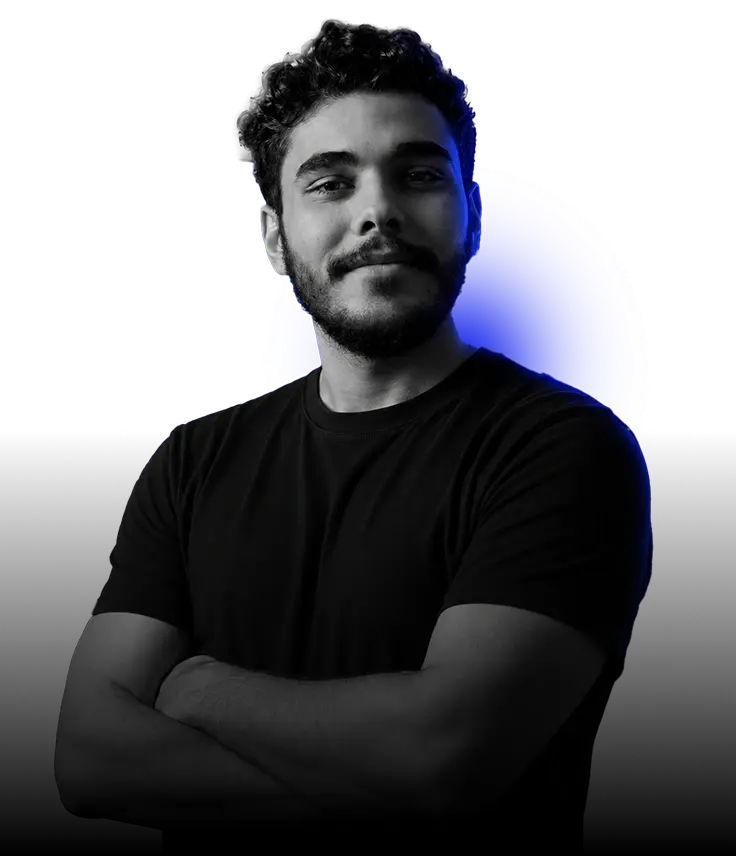
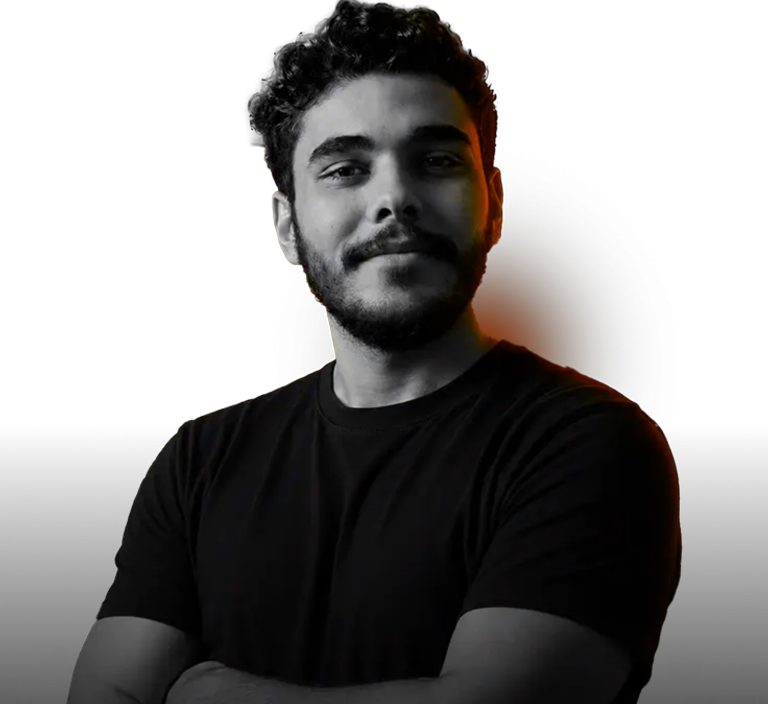
feat(portfolio): bake portrait presentation into image assets

diff --git a/portfolio/scripts/export-portrait.ts b/portfolio/scripts/export-portrait.ts
@@ -1,0 +1,298 @@
+#!/usr/bin/env bun
+/** Pixel-accurate portrait bakes via headless Chrome + source alpha composite. */
+import { existsSync, mkdtempSync, readFileSync, rmSync, writeFileSync } from 'node:fs';
+import { spawn, spawnSync } from 'node:child_process';
+import { createConnection } from 'node:net';
+import { tmpdir } from 'node:os';
+import path from 'node:path';
+import { fileURLToPath } from 'node:url';
+import sharp from 'sharp';
+
+const root = path.resolve(path.dirname(fileURLToPath(import.meta.url)), '..');
+const source = path.join(root, 'assets/omar-portrait-source.png');
+const heroOutput = path.join(root, 'public/omar-portrait.png');
+const flatOutput = path.join(root, 'assets/omar-portrait-flat.png');
+
+/** Desktop hero img used size (w-full max-w-3xl + md:max-h-[44rem]). */
+const OUT_W = 768;
+const OUT_H = 704;
+const DPR = 2;
+const FOCUS_X = 0.5;
+const FOCUS_Y = 0.12;
+
+/** Creator Broadcast Pipeline `--background`: oklch(13% 0.005 264) */
+const PAGE_BG = 'oklch(13% 0.005 264)';
+
+const CHROME =
+  process.env.CHROME_PATH ??
+  spawnSync('bash', ['-lc', 'command -v google-chrome || command -v chromium'], {
+    encoding: 'utf8',
+  }).stdout.trim();
+
+type Variant = 'hero' | 'flat';
+
+function coverExtract(
+  iw: number,
+  ih: number,
+  tw: number,
+  th: number,
+  fx: number,
+  fy: number,
+) {
+  const scale = Math.max(tw / iw, th / ih);
+  const sw = Math.round(iw * scale);
+  const sh = Math.round(ih * scale);
+  const left = Math.round(Math.max(0, Math.min(sw - tw, fx * sw - fx * tw)));
+  const top = Math.round(Math.max(0, Math.min(sh - th, fy * sh - fy * th)));
+  return { sw, sh, left, top };
+}
+
+async function cropSourceAlpha(dest: string) {
+  const meta = await sharp(source).metadata();
+  const iw = meta.width ?? 0;
+  const ih = meta.height ?? 0;
+  if (!iw || !ih) throw new Error('Could not read source dimensions');
+
+  const { sw, sh, left, top } = coverExtract(iw, ih, OUT_W, OUT_H, FOCUS_X, FOCUS_Y);
+  await sharp(source)
+    .resize(sw, sh)
+    .extract({ left, top, width: OUT_W, height: OUT_H })
+    .png()
+    .toFile(dest);
+}
+
+function bakeHtml(sourceFile: string, variant: Variant) {
+  const srcUrl = `file://${sourceFile}`;
+  const transparent = variant === 'hero';
+
+  const overlay = transparent
+    ? ''
+    : `
+  .hero-portrait::after {
+    content: '';
+    pointer-events: none;
+    position: absolute;
+    bottom: 0;
+    left: 0;
+    z-index: 1;
+    width: 100%;
+    height: 22%;
+    background: linear-gradient(
+      to top,
+      ${PAGE_BG} 0%,
+      color-mix(in oklch, ${PAGE_BG} 88%, transparent) 22%,
+      color-mix(in oklch, ${PAGE_BG} 45%, transparent) 58%,
+      transparent 100%
+    );
+  }`;
+
+  return `<!doctype html>
+<html lang="en"><head><meta charset="utf-8" />
+<style>
+  * { box-sizing: border-box; }
+  html, body {
+    margin: 0;
+    width: ${OUT_W}px;
+    height: ${OUT_H}px;
+    overflow: hidden;
+    background: ${transparent ? '#000' : PAGE_BG};
+  }
+  .hero-portrait {
+    position: relative;
+    margin: 0;
+    width: ${OUT_W}px;
+    height: ${OUT_H}px;
+  }
+  .hero-portrait img {
+    display: block;
+    width: ${OUT_W}px;
+    height: ${OUT_H}px;
+    object-fit: cover;
+    object-position: center 12%;
+    filter: hue-rotate(165deg) saturate(1.2);
+  }${overlay}
+</style></head>
+<body>
+  <figure class="hero-portrait"><img src="${srcUrl}" alt="" /></figure>
+</body></html>`;
+}
+
+async function waitForPort(port: number, timeoutMs = 10_000) {
+  const start = Date.now();
+  while (Date.now() - start < timeoutMs) {
+    try {
+      await new Promise<void>((resolve, reject) => {
+        const socket = createConnection({ port, host: '127.0.0.1' }, () => {
+          socket.end();
+          resolve();
+        });
+        socket.on('error', reject);
+      });
+      return;
+    } catch {
+      await Bun.sleep(50);
+    }
+  }
+  throw new Error(`Chrome debug port ${port} did not open`);
+}
+
+type CdpMessage = { id: number; method: string; params?: Record<string, unknown> };
+
+async function captureChrome(htmlPath: string, pngPath: string) {
+  if (!CHROME) throw new Error('Chrome/Chromium not found (set CHROME_PATH)');
+
+  const port = 9333 + Math.floor(Math.random() * 200);
+  const chrome = spawn(
+    CHROME,
+    [
+      '--headless=new',
+      '--disable-gpu',
+      '--hide-scrollbars',
+      '--no-sandbox',
+      `--remote-debugging-port=${port}`,
+      `--window-size=${OUT_W},${OUT_H}`,
+      `--force-device-scale-factor=${DPR}`,
+      `file://${htmlPath}`,
+    ],
+    { stdio: 'ignore' },
+  );
+
+  try {
+    await waitForPort(port);
+    const targets = (await fetch(`http://127.0.0.1:${port}/json/list`).then((r) =>
+      r.json(),
+    )) as Array<{ webSocketDebuggerUrl: string; type: string }>;
+    const page = targets.find((t) => t.type === 'page');
+    if (!page) throw new Error('No CDP page target');
+
+    const ws = new WebSocket(page.webSocketDebuggerUrl);
+    await new Promise<void>((resolve, reject) => {
+      ws.addEventListener('open', () => resolve());
+      ws.addEventListener('error', reject);
+    });
+
+    let id = 0;
+    const pending = new Map<number, { resolve: (v: unknown) => void; reject: (e: Error) => void }>();
+
+    ws.addEventListener('message', (event) => {
+      const msg = JSON.parse(String(event.data)) as {
+        id?: number;
+        result?: unknown;
+        error?: { message: string };
+      };
+      if (!msg.id) return;
+      const p = pending.get(msg.id);
+      if (!p) return;
+      pending.delete(msg.id);
+      if (msg.error) p.reject(new Error(msg.error.message));
+      else p.resolve(msg.result);
+    });
+
+    const send = (method: string, params: Record<string, unknown> = {}) =>
+      new Promise<unknown>((resolve, reject) => {
+        const msgId = ++id;
+        pending.set(msgId, { resolve, reject });
+        ws.send(JSON.stringify({ id: msgId, method, params } satisfies CdpMessage));
+      });
+
+    await send('Page.enable');
+    await send('Runtime.enable');
+    await send('Emulation.setDeviceMetricsOverride', {
+      width: OUT_W,
+      height: OUT_H,
+      deviceScaleFactor: DPR,
+      mobile: false,
+    });
+
+    await send('Page.navigate', { url: `file://${htmlPath}` });
+    await Bun.sleep(400);
+
+    await send('Runtime.evaluate', {
+      expression: `new Promise((resolve) => {
+        const img = document.querySelector('img');
+        if (!img) return resolve(false);
+        if (img.complete && img.naturalWidth) return resolve(true);
+        img.addEventListener('load', () => resolve(true), { once: true });
+        img.addEventListener('error', () => resolve(false), { once: true });
+      })`,
+      awaitPromise: true,
+    });
+
+    const shot = (await send('Page.captureScreenshot', {
+      format: 'png',
+      fromSurface: true,
+      captureBeyondViewport: false,
+      omitBackground: false,
+    })) as { data: string };
+
+    writeFileSync(pngPath, Buffer.from(shot.data, 'base64'));
+    ws.close();
+  } finally {
+    chrome.kill('SIGKILL');
+  }
+}
+
+function resizePng(pngPath: string, rgba: boolean) {
+  const args = rgba
+    ? ['-background', 'none', '-alpha', 'on', '-resize', `${OUT_W}x${OUT_H}!`]
+    : ['-resize', `${OUT_W}x${OUT_H}!`, '-alpha', 'off', '-define', 'png:color-type=2'];
+  const result = spawnSync('magick', [pngPath, ...args, pngPath], { encoding: 'utf8' });
+  if (result.status !== 0) throw new Error(result.stderr || 'magick resize failed');
+}
+
+/** Apply source alpha to Chrome-filtered RGB (no extra bottom cut — source alpha is canonical). */
+function composeHeroTransparent(filteredPath: string, alphaSourcePath: string, dest: string) {
+  const result = spawnSync(
+    'magick',
+    [
+      filteredPath,
+      alphaSourcePath,
+      '-compose',
+      'CopyOpacity',
+      '-composite',
+      '-background',
+      'none',
+      dest,
+    ],
+    { encoding: 'utf8' },
+  );
+  if (result.status !== 0) throw new Error(result.stderr || 'alpha composite failed');
+}
+
+async function exportVariant(variant: Variant, dest: string) {
+  const tmp = mkdtempSync(path.join(tmpdir(), `portrait-${variant}-`));
+  const htmlPath = path.join(tmp, 'bake.html');
+  const chromePath = path.join(tmp, 'chrome.png');
+  const alphaPath = path.join(tmp, 'alpha.png');
+
+  try {
+    writeFileSync(htmlPath, bakeHtml(source, variant));
+    await captureChrome(htmlPath, chromePath);
+    resizePng(chromePath, false);
+
+    if (variant === 'hero') {
+      await cropSourceAlpha(alphaPath);
+      composeHeroTransparent(chromePath, alphaPath, dest);
+    } else {
+      writeFileSync(dest, readFileSync(chromePath));
+    }
+
+    const final = spawnSync('magick', ['identify', '-format', '%wx%h %b', dest], {
+      encoding: 'utf8',
+    });
+    console.log(
+      `export-portrait (${variant}): ${path.relative(root, source)} → ${path.relative(root, dest)} (${final.stdout.trim()})`,
+    );
+  } finally {
+    rmSync(tmp, { recursive: true, force: true });
+  }
+}
+
+async function main() {
+  if (!existsSync(source)) throw new Error(`Missing source portrait: ${source}`);
+
+  await exportVariant('hero', heroOutput);
+  await exportVariant('flat', flatOutput);
+}
+
+await main();

diff --git a/portfolio/scripts/self-check.ts b/portfolio/scripts/self-check.ts
@@ -82,6 +82,8 @@ for (const file of [
   'public/og.png',
   'public/site.webmanifest',
   'public/omar-portrait.png',
+  'assets/omar-portrait-source.png',
+  'assets/omar-portrait-flat.png',
   'public/logos/capsule-community-32.png',
   'public/logos/capsule-community-64.png',
   'public/logos/school-of-marketing-32.png',
@@ -104,6 +106,20 @@ for (const [rel, w, h] of iconSizes) {
   assert(out.status === 0, `identify failed: ${rel}`);
   const [iw, ih] = (out.stdout ?? '').trim().split(/\s+/).map(Number);
   assert(iw === w && ih === h, `${rel} must be ${w}×${h}, got ${iw}×${ih}`);
+}
+
+{
+  const out = spawnSync(
+    'magick',
+    ['identify', '-format', '%w %h', path.join(root, 'public/omar-portrait.png')],
+    { encoding: 'utf8' },
+  );
+  assert(out.status === 0, 'identify failed: public/omar-portrait.png');
+  const [iw, ih] = (out.stdout ?? '').trim().split(/\s+/).map(Number);
+  assert(
+    iw === site.portrait.width && ih === site.portrait.height,
+    `omar-portrait.png must be ${site.portrait.width}×${site.portrait.height}, got ${iw}×${ih}`,
+  );
 }
 
 const faviconSvg = spawnSync('cat', [path.join(root, 'public/favicon.svg')], { encoding: 'utf8' });

diff --git a/portfolio/src/content/site.ts b/portfolio/src/content/site.ts
@@ -7,8 +7,10 @@ export const site = {
     'I build product interfaces, APIs, and commerce systems founders can ship and extend.',
   location: 'Cairo, Egypt',
   portrait: {
-    src: '/omar-portrait.png?v=10',
+    src: '/omar-portrait.png?v=18',
     alt: 'Omar Hosam, arms crossed, studio portrait with kinetic orange rim light',
+    width: 768,
+    height: 704,
   },
   /** Hero layout: C = centered lockup; portrait secondary (OD winner override) */
   heroLayout: 'C' as const,
